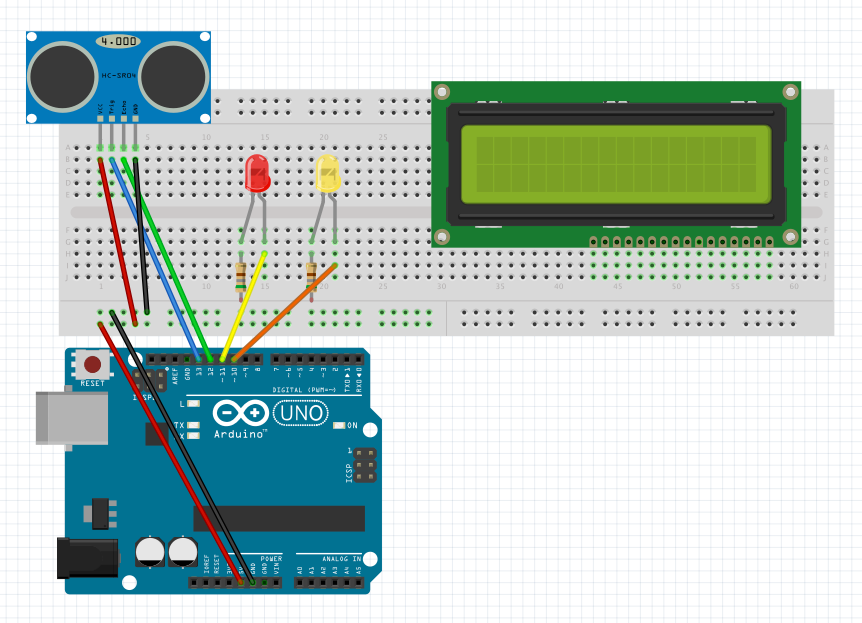
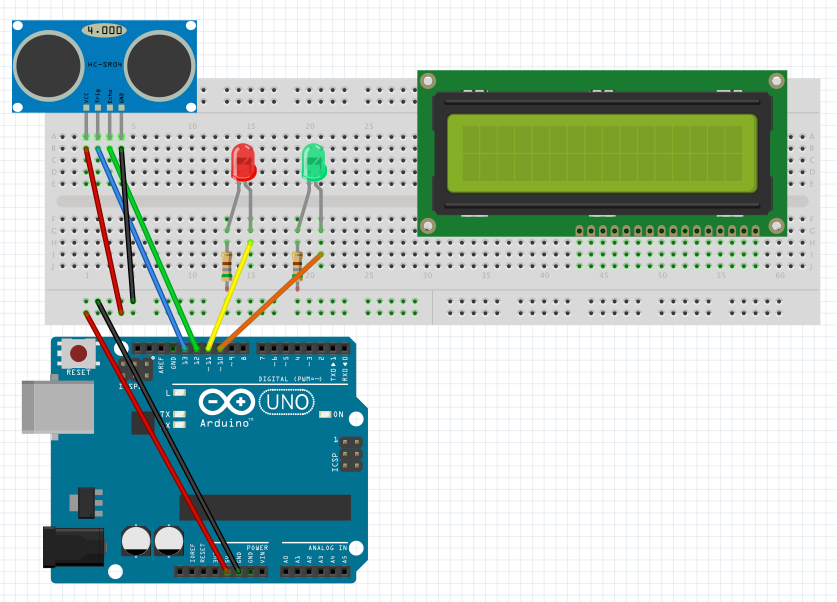
green led instead of yellow

Changed region(s): [[0.0, 0.0299, 0.994, 0.9867], [0.7145, 0.4784, 0.9319, 0.5382], [0.6213, 0.4784, 0.6834, 0.5382]]

diff --git a/proximity_sensor/README.md b/proximity_sensor/README.md
@@ -9,7 +9,8 @@
   - Hookup Wires
 
 ## Objective
-Start using a HC-SR04 to meassure distances. Will display the data in the serial monitor
+Start using a HC-SR04 to meassure distances. Will display the data in the serial monitor.
+Will use leds to indicate that the object in front of the sensor is near a certain distance. Red if its too close, green if it's good.
  
 ## Diagram
 ![Foo](diagram.png)
